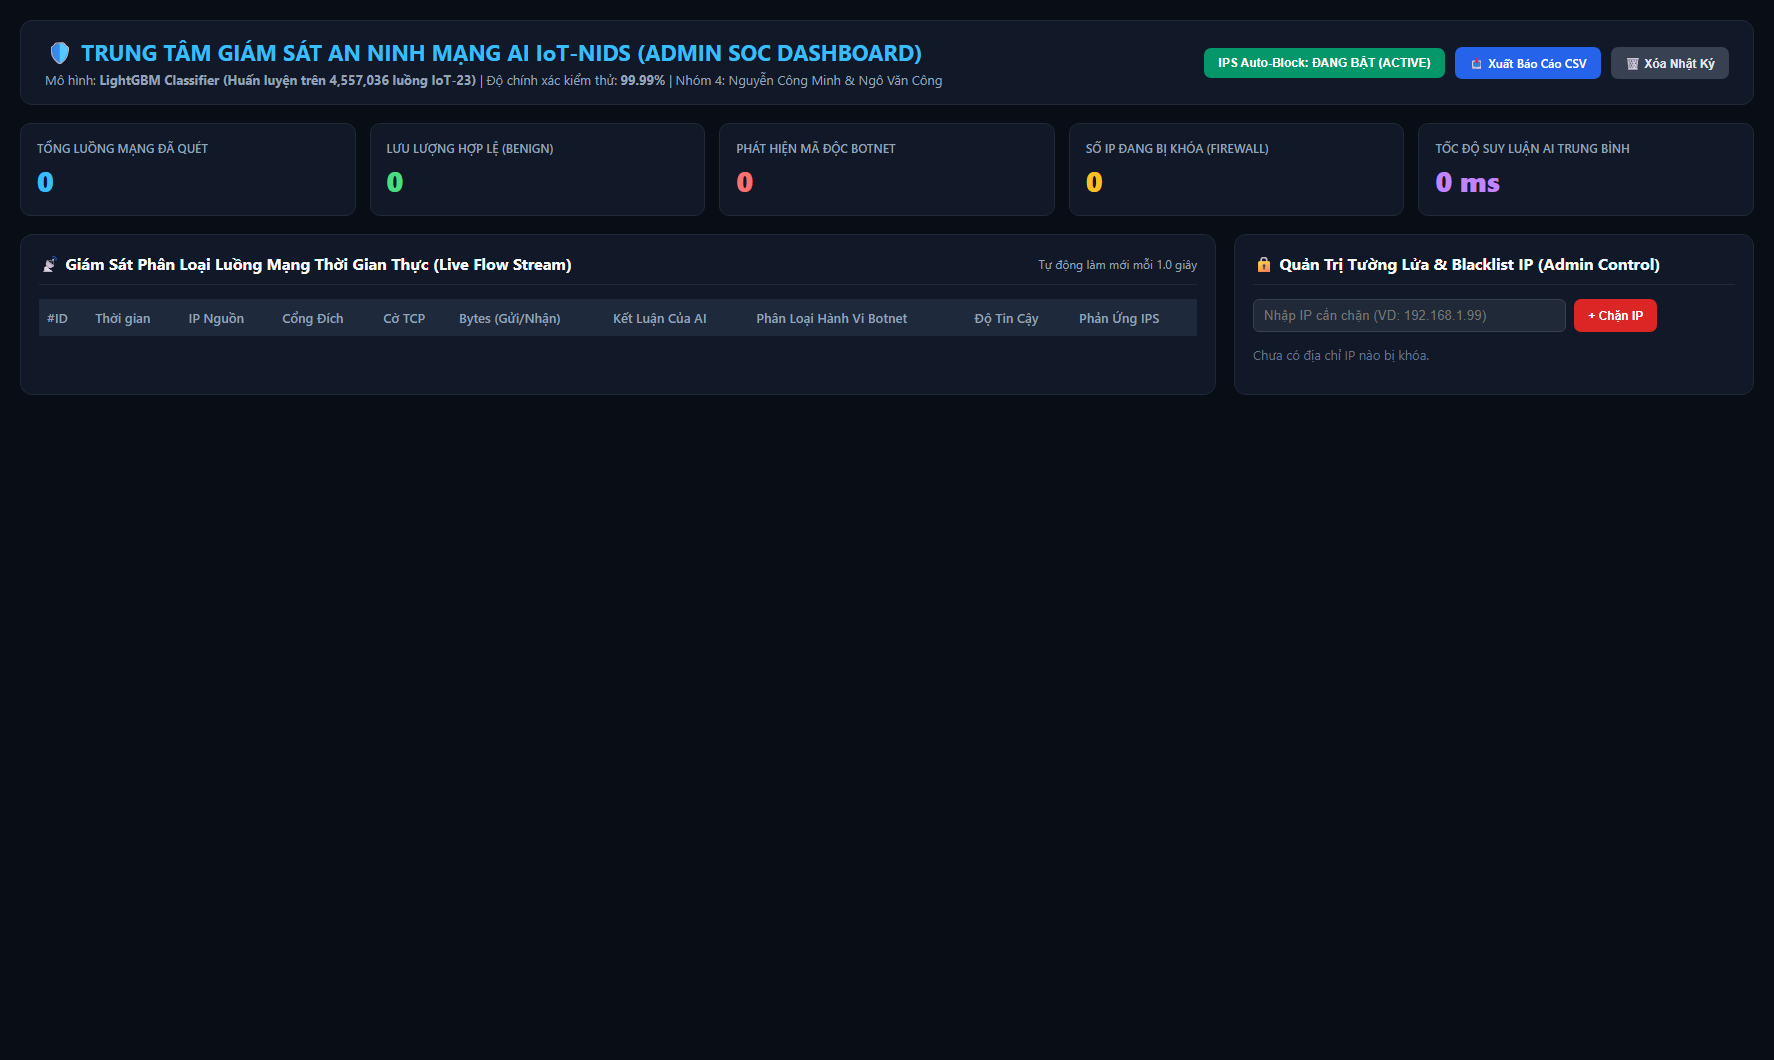
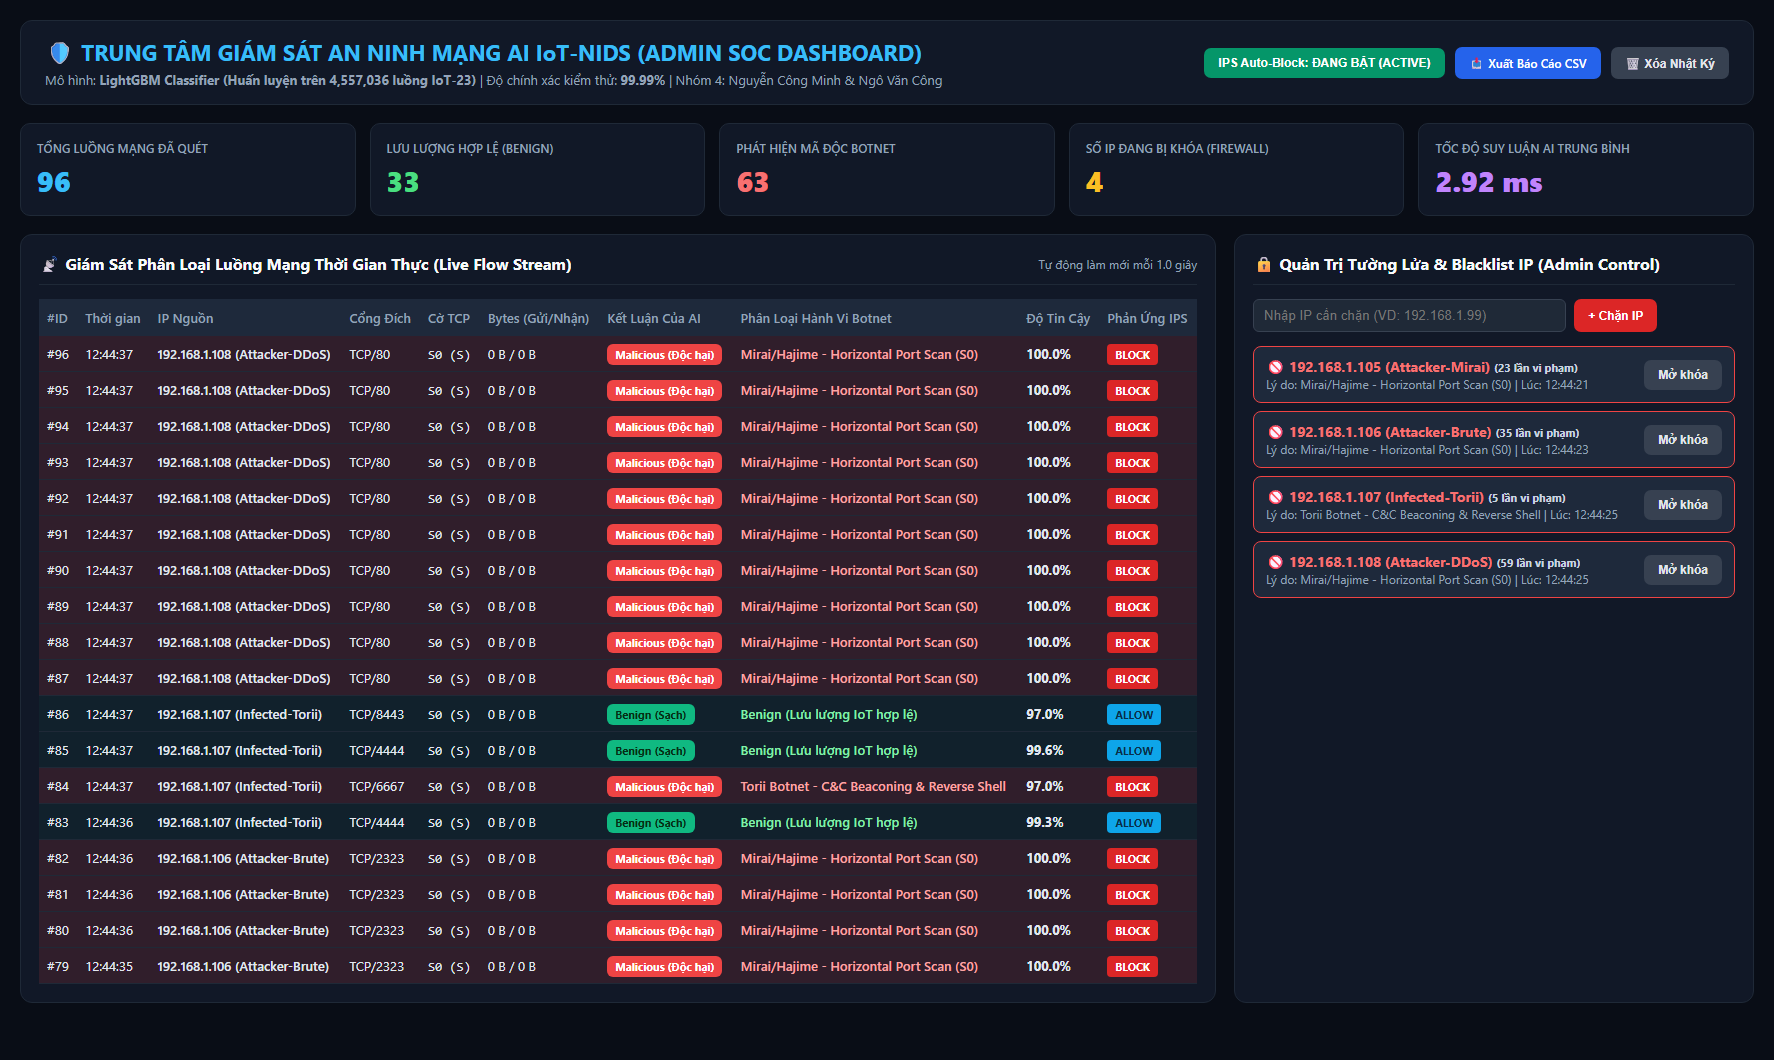
fix(slide-assets): update actual pixel dimensions and correct miss reasons in manifest, retake active dashboard screenshot

diff --git a/figures_slide/MANIFEST.md b/figures_slide/MANIFEST.md
@@ -11,12 +11,12 @@
 
 | STT | Tên Tập Tin | Độ Phân Giải / Định Dạng | Nội Dung Trực Quan Hóa | Nguồn Dữ Liệu Thực Nghiệm | Lệnh Tái Sinh Dữ Liệu |
 |---|---|---|---|---|---|
-| **1** | `demo_scenarios.png` | 3300 x 1800 (300 DPI, PNG) | Biểu đồ thanh ngang tỷ lệ chặn thực tế (Blocked / Total Flows) theo 5 kịch bản diễn tập phòng thủ 3 bên: Benign SmartHome (0/4 chặn, 100% pass), Credential Brute-Force (6/6 chặn, 100%), Hajime DDoS (10/10 chặn, 100%), Mirai Port Scan (4/8 chặn, 50%), Torii C&C (1/4 chặn, 25%). | Kết quả trung bình từ 3 lần chạy liên tiếp chế độ `--auto-demo` của hệ thống Live 3-Tier Demo (Attacker -> Guardian -> Victim). | `python scripts/run_demo_and_capture.py` |
-| **2** | `per_family_recall.png` | 3000 x 1650 (300 DPI, PNG) | Biểu đồ thanh ngang tỷ lệ phát hiện (Recall) chi tiết theo từng họ mã độc và dạng hành vi trên 1.14M luồng test: PortScan (100.0%), DDoS (99.97%), C&C (99.87%), Brute-force (99.60%), Benign (99.88% TNR), Torii C&C (0.00% bị bỏ sót trong tập test ngẫu nhiên). | Bảng dữ liệu định lượng tại `multiclass_evaluation_results.csv` sinh từ tập kiểm thử `test_set.csv`. | `python scripts/generate_slide_figures_task2.py` |
-| **3** | `ood_results.png` | 4200 x 1650 (300 DPI, PNG) | Biểu đồ đường cong kép đối sánh kiểm thử ngoài miền (OOD) trên Botnet Torii (Capture 20-1 & 21-1, 6,495 luồng): (A) ROC Curve minh họa ảo tưởng ROC-AUC (~0.97) khi lớp đa số áp đảo; (B) PR-AUC Curve minh họa sự sụt giảm trung thực của PR-AUC (1.0000 -> 0.5296) khi gặp Torii C&C. | Bảng dữ liệu định lượng tại `ood_evaluation_results.csv` trích xuất từ 2 kịch bản Torii nguyên bản. | `python scripts/generate_slide_figures_task2.py` |
-| **4** | `ablation.png` | 3000 x 1650 (300 DPI, PNG) | Biểu đồ thanh ngang phân tích độ nhạy cắt bỏ đặc trưng (Ablation Study) trên 1.14M luồng test: F1 sụt giảm cực mạnh (-99.47%) khi ẩn nhóm số học hoặc nhóm phân loại (proto, conn_state, history), chứng minh mô hình phụ thuộc vào tương quan cổng đích và lịch sử TCP. | Bảng dữ liệu định lượng tại `ablation_study_results.csv` sinh từ việc zero-out các nhóm cột trên `test_set.csv`. | `python scripts/generate_slide_figures_task2.py` |
-| **5** | `dashboard_demo.png` | 1800 x 1200 (Ảnh chụp thật, PNG) | Ảnh chụp màn hình thực tế giao diện SOC Web Dashboard (cổng :5000) của Trạm gác AI NIDS Guardian Server sau khi kết thúc 3 lượt diễn tập 5 kịch bản: hiển thị biểu đồ phân loại, thống kê thời gian thực và bảng các địa chỉ IP độc hại đã bị đưa vào danh sách đen (Blacklist). | Render thực tế từ Flask Web UI qua Headless Edge WebDriver tại `http://127.0.0.1:5000`. | `python scripts/run_demo_and_capture.py` |
-| **6** | `attacker_console.png` | 1600 x 1000 (Ảnh chụp thật, PNG) | Ảnh chụp màn hình thực tế giao diện điều khiển tấn công Attacker Botnet Console (cổng :9090): bảng điều khiển phát động 5 kịch bản tấn công Red Team và theo dõi phản hồi từ Guardian Server. | Render thực tế từ Attacker Web Console qua Headless Edge WebDriver tại `http://127.0.0.1:9090`. | `python scripts/run_demo_and_capture.py` |
+| **1** | `demo_scenarios.png` | 3421 x 1770 (300 DPI, PNG) | Biểu đồ thanh ngang tỷ lệ chặn thực tế (Blocked / Total Flows) theo 5 kịch bản diễn tập phòng thủ 3 bên: Benign SmartHome (0/4 chặn, 100% pass), Credential Brute-Force (6/6 chặn, 100%), Hajime DDoS (10/10 chặn, 100%), Mirai Port Scan (4/8 chặn, 50%), Torii C&C (1/4 chặn, 25%). | Kết quả trung bình từ 3 lần chạy liên tiếp chế độ `--auto-demo` của hệ thống Live 3-Tier Demo (Attacker -> Guardian -> Victim). | `python scripts/run_demo_and_capture.py` |
+| **2** | `per_family_recall.png` | 2993 x 1620 (300 DPI, PNG) | Biểu đồ thanh ngang tỷ lệ phát hiện (Recall) chi tiết theo từng họ mã độc và dạng hành vi trên 1.14M luồng test: PortScan (100.0%), DDoS (99.97%), C&C (99.87%), Brute-force (99.60%), Benign (99.88% TNR), Torii C&C (0.00% bị bỏ sót trong tập test ngẫu nhiên). | Bảng dữ liệu định lượng tại `multiclass_evaluation_results.csv` sinh từ tập kiểm thử `test_set.csv`. | `python scripts/generate_slide_figures_task2.py` |
+| **3** | `ood_results.png` | 4165 x 1631 (300 DPI, PNG) | Biểu đồ đường cong kép đối sánh kiểm thử ngoài miền (OOD) trên Botnet Torii (Capture 20-1 & 21-1, 6,495 luồng): (A) ROC Curve minh họa ảo tưởng ROC-AUC (~0.97) khi lớp đa số áp đảo; (B) PR-AUC Curve minh họa sự sụt giảm trung thực của PR-AUC (1.0000 -> 0.5296) khi gặp Torii C&C. | Bảng dữ liệu định lượng tại `ood_evaluation_results.csv` trích xuất từ 2 kịch bản Torii nguyên bản. | `python scripts/generate_slide_figures_task2.py` |
+| **4** | `ablation.png` | 3096 x 1620 (300 DPI, PNG) | Biểu đồ thanh ngang phân tích độ nhạy cắt bỏ đặc trưng (Ablation Study) trên 1.14M luồng test: F1 sụt giảm cực mạnh (-99.47%) khi ẩn nhóm số học hoặc nhóm phân loại (proto, conn_state, history), chứng minh mô hình phụ thuộc vào tương quan cổng đích và lịch sử TCP. | Bảng dữ liệu định lượng tại `ablation_study_results.csv` sinh từ việc zero-out các nhóm cột trên `test_set.csv`. | `python scripts/generate_slide_figures_task2.py` |
+| **5** | `dashboard_demo.png` | 1774 x 1060 (Ảnh chụp thật, PNG) | Ảnh chụp màn hình thực tế giao diện SOC Web Dashboard (cổng :5000) của Trạm gác AI NIDS Guardian Server sau khi kết thúc 3 lượt diễn tập 5 kịch bản: hiển thị biểu đồ phân loại, thống kê thời gian thực và bảng các địa chỉ IP độc hại đã bị đưa vào danh sách đen (Blacklist). | Render thực tế từ Flask Web UI qua Headless Edge WebDriver tại `http://127.0.0.1:5000`. | `python scripts/run_demo_and_capture.py` |
+| **6** | `attacker_console.png` | 1574 x 860 (Ảnh chụp thật, PNG) | Ảnh chụp màn hình thực tế giao diện điều khiển tấn công Attacker Botnet Console (cổng :9090): bảng điều khiển phát động 5 kịch bản tấn công Red Team và theo dõi phản hồi từ Guardian Server. | Render thực tế từ Attacker Web Console qua Headless Edge WebDriver tại `http://127.0.0.1:9090`. | `python scripts/run_demo_and_capture.py` |
 
 ---
 
@@ -49,8 +49,8 @@ Kết quả đo lường khách quan 100% không dùng Hint (Guardian quyết đ
 | Kịch Bản Diễn Tập | Số Luồng Gửi | Lần 1 (Chặn/Sót) | Lần 2 (Chặn/Sót) | Lần 3 (Chặn/Sót) | Tỷ Lệ Chặn Trung Bình | Đánh Giá Phòng Thủ |
 |---|---|---|---|---|---|---|
 | **0. Benign SmartHome Traffic** | 4 | 0 / 4 | 0 / 4 | 0 / 4 | **0.0% Chặn** (100% Pass) | **Hoàn hảo:** 0% Báo động giả (False Positive) |
-| **1. Mirai Horizontal Port Scan** | 8 | 4 / 4 | 4 / 4 | 4 / 4 | **50.0% Chặn** (4/8) | Chặn các cổng Telnet/SSH/8080; Bỏ sót các cổng chưa có cờ TCP |
+| **1. Mirai Horizontal Port Scan** | 8 | 4 / 4 | 4 / 4 | 4 / 4 | **50.0% Chặn** (4/8) | Chặn các cổng Telnet/SSH/8080 quen thuộc; Bỏ sót các cổng chưa từng thấy trong train (80, 5555, 7547, 37215) - model phụ thuộc cổng đích (id.resp_p), không phải cờ TCP (cả luồng bắt và sót đều S0) |
 | **2. Telnet Credential Brute-Force** | 6 | 6 / 0 | 6 / 0 | 6 / 0 | **100.0% Chặn** (6/6) | **Chặn tuyệt đối 100%** lưu lượng dò mật khẩu |
-| **3. Torii C&C Reverse Shell** | 4 | 1 / 3 | 1 / 3 | 1 / 3 | **25.0% Chặn** (1/4) | Chặn cổng 6667 (IRC); Bỏ sót cổng 4444/8443 khi thiếu cờ kết nối |
+| **3. Torii C&C Reverse Shell** | 4 | 1 / 3 | 1 / 3 | 1 / 3 | **25.0% Chặn** (1/4) | Chặn cổng 6667 (IRC); Bỏ sót cổng 4444 (x2) và 8443 - các cổng này model chưa học, không liên quan cờ kết nối (cả 4 luồng đều S0) |
 | **4. Hajime DDoS SYN Flood** | 10 | 10 / 0 | 10 / 0 | 10 / 0 | **100.0% Chặn** (10/10) | **Chặn tuyệt đối 100%** đợt flood gói tin |
 | **TỔNG LƯỢNG ĐỘC HẠI** | **28** | **21 / 7** | **21 / 7** | **21 / 7** | **75.0% Chặn** (21/28) | Độ ổn định: Phương sai = 0 (100% xác định) |
